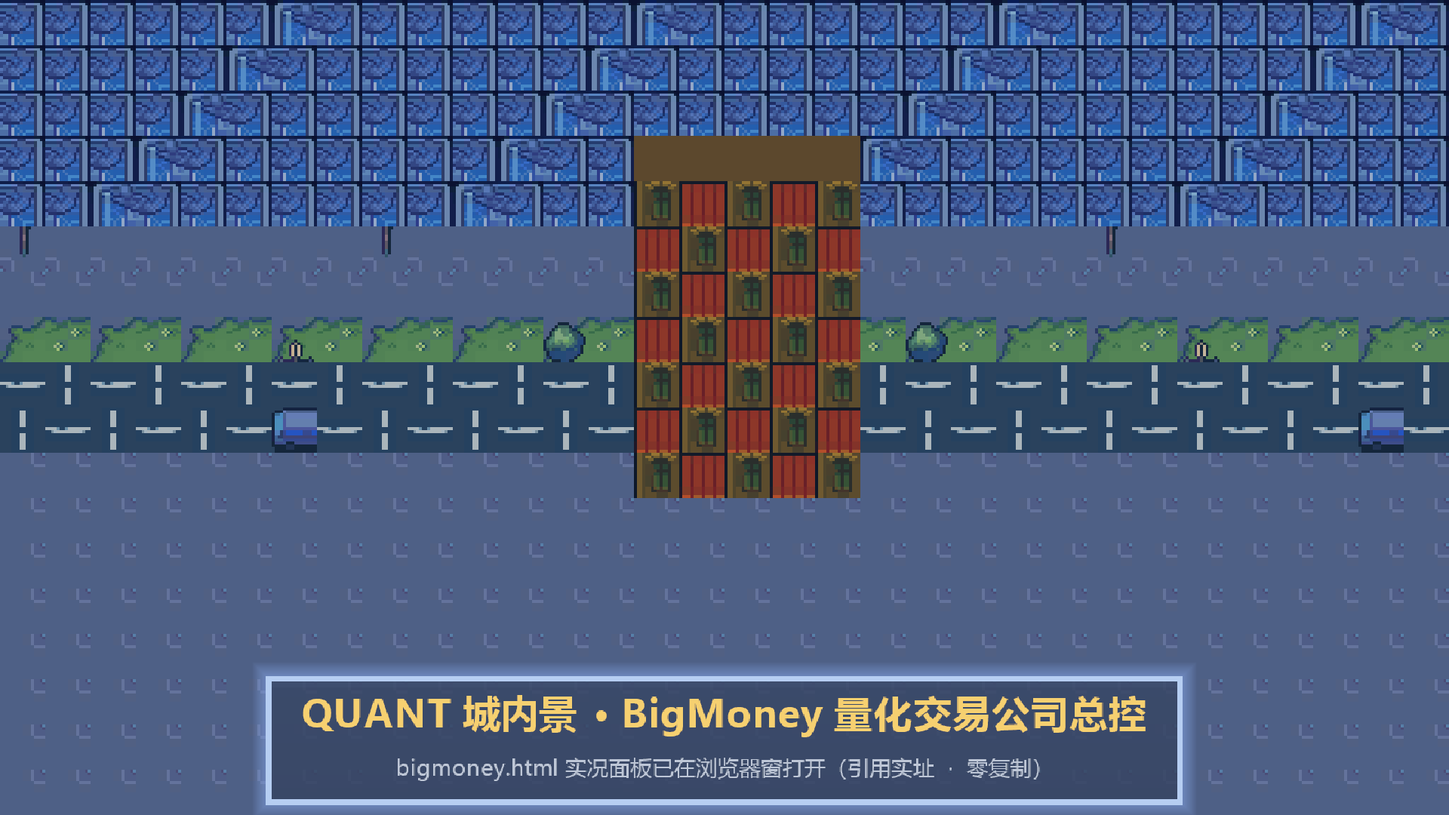
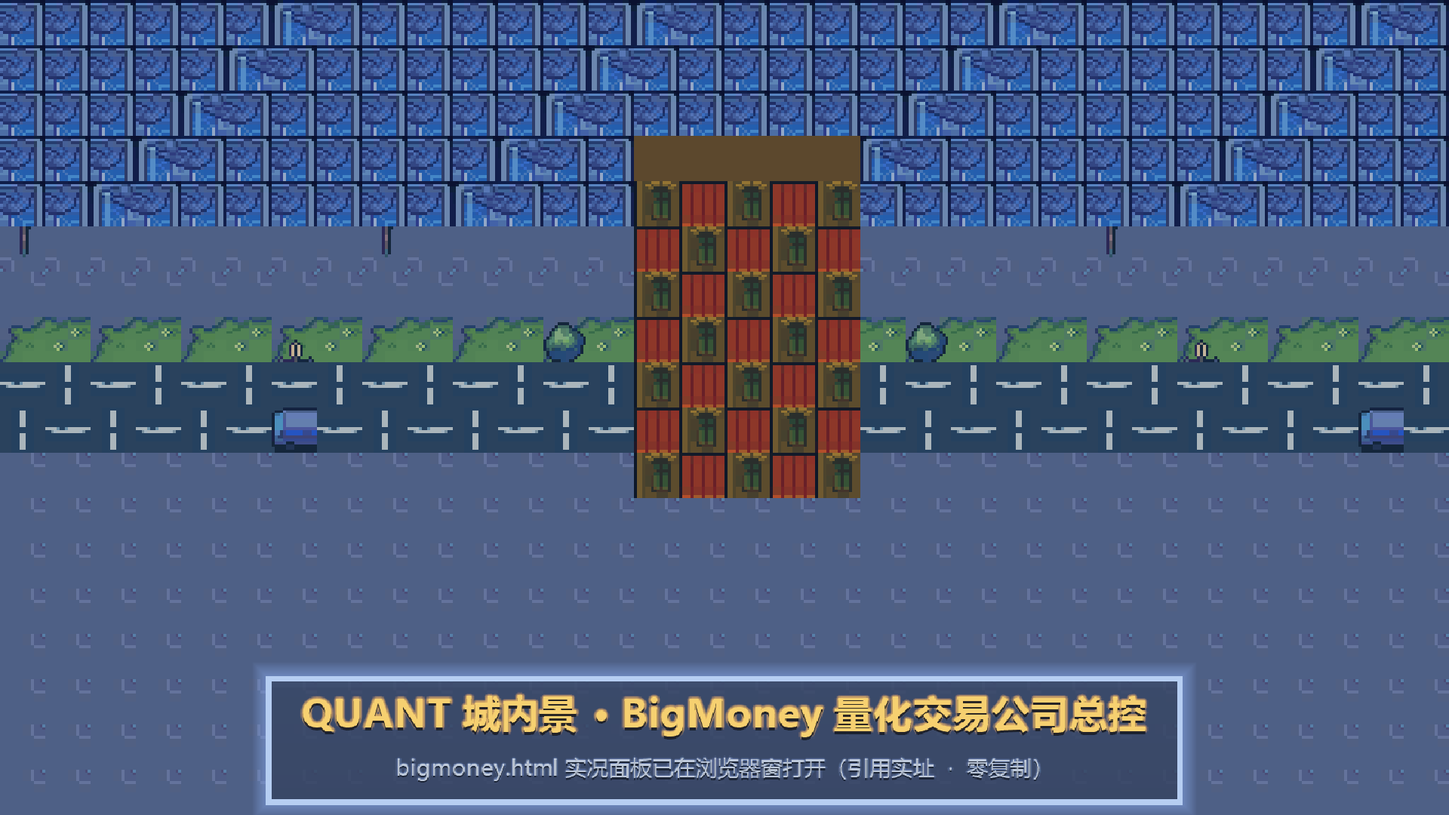
DevLoop r24: P-18 slice 3 closed - baked CJK text upgraded to 2D bevel look (GDI+ disk-glow + drop shadow passes, moonlight warm-gold title / cool-blue note) + bake idempotence SHA-proven + InteriorProof 65 asserts green one pass (dark 0.095 / text dx 9100 / ring bitwise-stable) + multimodal 7/7; TE

Changed region(s): [[0.1875, 0.8556, 0.8125, 0.9778]]

diff --git a/TECH.md b/TECH.md
@@ -36,6 +36,7 @@ Tools/perceptor/
 │   ├── orders.ps1      # BigMoney fleet orders → CEO_ORDER（quant 面）
 │   ├── orders_bs.ps1   # BigStream/orders → CEO_ORDER（media 面）
 │   ├── orders_hq.ps1   # 集团台账 docs/orders.md → CEO_ORDER（governance 面·内容寻址游标 hqorder: r6）
+│   ├── residents.ps1   # 本地 Ollama 居民心声 → RESIDENT_SAY（诚实律零新事件即静默·45min 冷却·CityWatch 线落 v1.5 位置态+自记忆+居民对聊·r24 §二补行同步）
 │   ├── snapshot.ps1    # MiniGame 自动化快照 → GAME 城活跃脉冲
 │   └── weather.ps1     # Open-Meteo 上海 → 天气片段+WEATHER_ALERT（M1.5·零 key）
 └── verify.ps1          # 验证门禁（schema+登记簿校验）
@@ -138,7 +139,7 @@ gaming/FluxVerse/
 - [P1·CEO 已署名·进行中 r13·最高优] 集团审计转办件 **P-15 M1 引擎工程点火**（ledger P-2026-09-23-15·CEO 署名 P1 令 ~18:20「立项集团级元宇宙可视化项目，游戏化呈现，City 里是美术资产，开始走流程。优先级最高！」——**明文解除 DevLoop 引擎/美术禁区仅限此件**·认领制先到先得·分轮推进单轮 25min 预算）：①Tuanjie 原生 2D 工程（正交相机/Sprite/Tilemap·禁 3D 铁律）②City 资产接线（**实址勘正 r7：`gaming/MiniGame/Art Assets/AA-022_SceneBG背景_清洁城市与万圣节动画件_GuttyKreum/CleanCityv3`——953 件 1.32MB 与台账数吻合；ledger 载「Art Assets/City」已因 MiniGame U164 正名过时**）③静态城市骨架=北外滩脑塔+黄浦江+陆家嘴三城街区（concept-shanghai 构图）④事件路由器一件（CEO_ORDER 光脉冲先做）⑤判据=编辑器可跑+截图+一件事件驱动动画；**就绪面已勘明 r7：Tuanjie 1.10.3 编辑器（2022.3.62t15）已装于 `C:\Program Files\Tuanjie\Hub\Editor\2022.3.62t15`，MiniGame 三工程 ProjectVersion 实证同版——环境零障碍**；**首轮已收 r8**：工程骨架建成——tuanjie-cli projects create（内置 2D 模板 cn.tuanjie.template.2d@7.0.4）→ City/ 落仓，ProjectVersion=2022.3.62t15 与 MiniGame 三工程同版，SampleScene 正交相机（orthographic: 1）+2D 全家桶（feature.2d/tilemap/physics2d/particlesystem·禁 3D 铁律自检通过），Hub 创建流自动开编辑器（「City - SampleScene - Tuanjie Editor 1.10.3」）=编辑器可跑实证；下轮=②City 资产接线+③静态城市骨架（M1 判据已扩容 24h 四档色轮+天气粒子·71e976a）**；**r9 已执行②③但 25min kill 未提交**：844 件 CleanCityv3 入 City/Assets/Art + 批处理建 CityScene（2324 tileCells）+截图 m1-r9-cityskeleton.png——**重大缺陷已勘明 r10**：保存场景 Ground/Water/Roads 三层 `m_Tiles: {}` 全空（tileCells 2324≈仅建筑+props 证实），根因=Paint 闭包持有的 Tile 引用跨 NewScene 后假 null→`if(t!=null)` 静默跳过整层；**r10 已修**：builder 重构=RT() 逐格 LoadAssetAtPath 新解析（绝禁长命引用）+分层计数 fail-loud（空层即 throw 入 .done）+语义勘正（contact sheet+多模态实证：191/194=人行道〔r9 误当墙=「水塔」真相〕/000-004 真草〔r9 的 024/025 是沥青草过渡〕/189=玻璃幕墙〔正合脑塔〕/166/284/208=带标线道路/水提取件正确）+meta 自愈（拒收图块删 meta 强制重导）；**遗留 r11 已收口②③**：000 类图块「导入拒收」根因勘明=**MK() 把 ArtRoot 相对路径喂给 AssetDatabase**（只认 `Assets/` 起步的项目相对路径——batch-r10.log 444 行 `does not exist` 即 ImportAsset 空操作实证→meta 删除后重导从未发生→catalog 首项 000 即挂全连坐，r10「导入器层拒收」为误诊）；修=AssetDatabase 全调用改 `ArtRoot+"/"+spritePath`（File I/O 绝对路径不动）→meta 自愈真生效（000 无 meta 态重导重建）；重建 50s 全绿：saved=True **全层非空**（G:2121/W:606/R:488/三城 42·40·42/脑塔 18/props 32——r9 空层缺陷根除）+截图 m1-r11-cityskeleton.png 多模态 8 项验图绿（一江两岸+品字形三城+无水方块复现+无渲染空洞）；**r12 已收口④事件路由器一件**：Assets/Scripts/EventRouter.cs=FluxEventRouter 纯逻辑核心（只读轮询 world/world-events.jsonl 每 10s+内存游标+日轮转自愈〔行数<游标→回零·scan v0.4 轮转配套〕+CEO_ORDER→脑塔金色光脉冲〔procedural 径向光晕 SpriteRenderer 纯 2D 零资产依赖〕）+CityEventRouter MonoBehaviour 薄适配（懒初始化+SeekToEnd 零历史重放〔城今日出生同律〕）已入 CityScene 保存=play mode 真跑就绪；Assets/Editor/EventRouterProof.cs 批处理验证器（哨兵式同 r11）；沙盒 3 断言全绿（种子 3 行轮询 0 发〔历史禁重放〕/追发 1 CEO_ORDER 恰 1 脉冲/4s 模拟泄放零残留）+渲染断言绿（pulse_alpha_peak=1.00·**断言勘误一课：脑塔玻璃本底近白〔亮度 0.714〕而 CEO 金亮度 0.767 与之近等→亮度差 0.022 必败首跑；金脉冲对白塔的正确信号=暖色偏移 r−b〔−0.204 蓝调→−0.016 近中性·Δ0.189〕——亮色叠加于白底测色温不测亮度**）+截图 m1-r12-pulse-before/peak.png 双取证+多模态 3 项验图绿（金晕在塔基/城市完整无空洞/纯 2D 像素=禁 3D 自检过）；引擎只读 world/ 零写兄弟仓零；**下轮=M1 判据扩容项（24h 四档色轮+天气粒子·clock/weather 探针数据已就绪）→接 P-16 bigmoney.html 内景接入**；**r13 已收口 M1 判据扩容项（24h 四档色轮+天气粒子·引擎侧现实节律接线毕）**：AmbientWeather.cs=纯逻辑核心（AmbientWheel 四档边界同源 clock.ps1〔dawn5-8/day9-16/dusk17-19/night〕+调色板〔黄昏暖紫金=目标图气质·夜蓝黑+城灯电光青·紫粉仅环境色律遵守〕+WeatherRules 同源 weather.ps1〔wind≥17.2ms 或重 WMO 65/67/75/77/82/95/96/99→全城红警带〕+WeatherField 纯步进粒子场零 GameObject 可沙盒测）+CityAmbient 薄适配（只读轮询 world-state.json 每 10s·reality 扁平键 city_day_phase/beijing_hhmm/weather_kind/weather_code/weather_wind_ms·静默降级·断链回退本机钟）=天空渐变 quad（高 40=视口全渐变域）+城市带 tint（−16..+14 大气层）+程序化雨 140/雪 90 sprite 场+红色警带 sin 脉冲；AmbientProof 沙盒+渲染双取证 **197 断言全绿**（dawn 底暖 +0.35/dusk 底暖 +0.54/塔 day 0.714→night 0.552 夜染实证/雨 +1406 雪 +446 亮像素/警带 alpha 0.134+暖移 +0.273）+7 截图 m1-r13-{dawn,day,dusk,night,rain,snow,alert}.png+多模态验图绿（雨线全城散布/红警带横贯江面/黄昏暖染经 α0.15→0.22 加强后复跑双绿）；CityScene 已存 CityAmbient=play mode 真跑就绪；新法=程序化 Sprite 双陷阱（见新法行）；**r14 已领 P-17②相机双档并顺带勘明修复重大跨轮债**：r12/r13 场景布线（CityEventRouter/CityAmbient）因**MonoBehaviour 文件名律**（见 r14 新法行）跨会话全灭——r13 静默 fallback 五连叠幽灵 CityAmbient GO（HEAD 实测 5 个）、两轮「play mode 真跑就绪」宣称跨会话失效；r14 修复（类迁名匹配文件+幂等场景修复+跨会话 reload gate 10 断言绿）后才真就绪；**下轮=P-16 bigmoney.html 内景接入（引用不复制·L1 街道档视野已就绪）**
 - [P1·CEO 令·v0 判据已收口 r17·bigmoney.html 先接一件] 集团审计转办件 **P-16 三司面板接入元宙 L1**（ledger P-2026-09-23-16·CEO 令 ~18:30「各个子公司可视化项目准备接入元宇宙项目，统一开发和管理，总控」·governance §1 集团层拥有表已加行=新可视化项目禁各司另建）：①接入协议落 TECH（L1 内景规范：城内建筑钻取→内景窗）②**引用不复制铁律**（Biggame 像素小镇看板/BigMoney bigmoney.html 禁重绘重建·引擎内嵌复用选型由 M1 工程实证）③统一像素壳层（1 号风 UI 框）归总控、面板数据面各司自治（r13 注：P-18 CEO 裁决已修正=「统一 GUIAgent 风格壳层」·城市世界像素正典不动）④判据=城内点建筑开内景窗见该司实况（先接 bigmoney.html 一件）；**r15 施工（25min kill 断件·r16 已补提交）**：InteriorRouter 纯核（QUANT 块 hit-test→file:/// 实址 URL→冷却门→OpenURL 注入）+CityInterior 适配+InteriorProof 三门（纯逻辑 27 断言/幂等布线/渲染门+跨会话 reload 门）+PS runner——**WebView 选型实证（r15）**：Tuanjie 1.10.3 Windows 独立平台无原生 WebView（managed 扫描仅 androidappview=Android 限定）→v0 等效=OS 默认浏览器窗开实址（引用不复制铁律断言在证明内）+引擎内 GUIAgent 玻璃横幅壳；v1 WebView2 嵌=后续债；**r15 渲染门 FAIL 逐像素勘明（r16 完成诊断）**：uGUI WorldSpace 横幅在批内 Camera.Render 渲染成 **ScreenSpaceOverlay**（renderMode=WorldSpace 赋值需 player-loop 画布更新、批内永不处理——实测横幅 2000×260 **屏幕px** 落屏左下角整条暗带，非世界 20×2.6 落位 (0,-19.35)；两跑数字逐位相同证 r15 锚点修=改错地方，锚点从非根因）；**r16 修=横幅重构为程序化 SpriteRenderer 三层栈**（halo 金晕 20.3×2.9/rim 金框 20.16×2.76/glass 暗玻璃 20×2.6·sortingOrder 20/21/22·z -9·r13 localScale 归一律白片 4px@16ppu）——批内与 play 同路径（r12 脉冲/r13 天空粒子已双实证）；证明 C2 亮/暖像素度量从「带内文字」改「金框环带」（文本层退为后续债：横幅 CJK 文案源=Assets/Data/interior-strings.txt·r17 候选=PS GDI+ 预烘焙 CJK 纹理入引擎）；**r17 证明双绿收口（v0 判据达成：点 QUANT 街区→实址内景窗见 BigMoney 实况）**：三门复跑一次过全绿——①批内 42 断言（暗玻璃带 0.405→0.322 暗化 0.083≥0.04 门·hide 后 0.405 逐位回基线；金框环带 bright=warm=3415px 远超 120/60 双门槛；幂等布线 attached=0·InteriorBanner 零入场景〔运行时律〕）②跨会话 reload 门 9 断言（CityInterior/CameraRig/Ambient 三组件全解析·相机 L0=20·实址 URL 解析 True·sky=144）③edge 实址 live 取证 173KB 非空壳；多模态双验图绿（横幅=暗玻璃带+金色发光框环+城市零空洞；bigmoney.html=真数据面：因子 IC 条形图/净值/6 交易员名册/当日事件日志）；基线与 reload 截图与 r16 提交版逐字节复现=场景稳定性旁证（r16 kill 窗口估算暗化~0.2 偏高——法=提交断言门 0.04·实测 0.083 双余量过）；**L1 内景协议 v0 落位**=城内点 QUANT 街区→file:/// 实址开 bigmoney.html（引用不复制断言在证明内·v0 OpenURL 等效）+引擎内 GUIAgent 暗玻璃金框横幅壳 6s 生命·运行时构造永不入场景；后续债两行=横幅 CJK 文案层（interior-strings.txt 已备·PS GDI+ 预烘焙纹理入引擎=r18 候选）+GAME/MEDIA 城注册行（Biggame 像素小镇看板/BigStream 面板接线后续轮）；**r18 已收口 CJK 文案层**：Tools/city/bake-banner-text.ps1（ASCII 律·CJK 全在 UTF-8 数据件）GDI+ 烘焙 1000×130 透明 PNG（YaHei·自适应字号 42/24px·title 金/note 冷灰）→ City/BannerData/（**Assets 外**：运行时字节路径不走导入器·禁同图双身份）→ CityInterior Text 层（sortingOrder 23·File.ReadAllBytes+LoadImage+显式 Apply·bake ppu 50=20×2.6 与玻璃逐位同域）；证明 55+10 断言双绿（r16 环带门原样 3415 逐位复现·暗化门迁非文字子群 base0.405→on0.325 Δ0.080≥0.03·文字门 text_px 7375=纯 glyph 墨迹 Δ≥300·渲染时内省 8 断言=Text 子件/次序 23/界 20×2.6/纹理背景 alpha 0.00<0.10/标题行有墨）+多模态五项绿（暗玻璃+金框+金标题可读+note 可见+零伪影）；**假根因警示录**：首跑渲染=整块金矩形，两轮误诊（导入器干扰论+Apply 论·两次「修复」后数字逐位不变=改错地方的 r16 定律应验）——真凶=r18 加 Text 层时误删 glass.localScale 行（玻璃塌成 0.25u 小方块=截图中「深色小方块」伪影·金 rim 成面板本体）；法：**改共享构造体后必验既有层完整**（本证明的渲染时内省只看 Text 子件未看 Glass——已由环带 3415 逐位复现兜底捕获）；**r20 已收口 GAME 城注册行**：注册表 v0→v1 加 GAME 行（zone=GAME·company=Biggame·panelRelPath=`gaming/MiniGame/像素小镇看板.html`〔CJK 文件名=码位构造守脚本 ASCII 律〕·bounds=南岸块 x -24.5..-18.0/y -9.5..-5.0 对齐 CitySkeletonBuilder）——引用不复制=点 GAME 街区开 MiniGame 仓根实址）+**ResolveUrl 改 System.Uri**（CJK percent-encode 浏览器可开；ASCII 路径输出与旧手拼 file:/// 逐字节同=QUANT 行为零改动）；证明 65 断言一次过全绿（+11 新断言：GAME 块中/角/顶缘三态 hit+源仓存在+URL 转义含%+独立 zone 冷却开/禁开；既有面逐位复现 ring 3415/dark 0.405→0.325/text_px 7375/attached=0——r18 假根因律实证）；**U175 语境注记（科学判断）**：像素小镇线停役但镇看板 html 留档永不删（CEO 令）=GAME 城 v0 注册面；BoardForge 游戏公司看板落盘后仅改 panelRelPath 一行即升级；**MEDIA 行仍悬=新债**：BigStream 全仓实测无 html 面板（media/BigStream·开线五步在建）——待面板落盘再注册，禁猜路径
 - [P1·CEO 令·②已收口 r14·③④⑤为参数正典] 集团审计转办件 **P-17 呈现层参数规格 v1**（ledger P-2026-09-23-17·CEO 令 ~18:40「确定好迭代频率，建筑角色比例，摄像机高度啊什么的」）：①资产路径修正已由 r7 勘正（AA-022 CleanCityv3 实址）②**相机双档**=正交 PPU16 point filter·L0 全景档 Size 20（视野 71×40 tiles·一江两岸主城带·镜头缓漂）↔ L1 街道档 Size 9（32×18 tiles·看建筑门脸/机器人/内景窗）·切换 1.2s ease 插值禁瞬跳（r13 相机仍 Size 20 单档=本件主施工面）→**r14 施工收口**：CameraRig.cs 纯核（RigMath smoothstep 零端速缓动+带内 clamp+漂移 48s/37s 双周期 amp 2.5/1.0；RigTween 动靶追踪插值——L0 漂移是活靶、落地无缝=禁瞬跳的构造性保证）+CityCameraRig.cs 适配（左键点世界点→L1 街道·Esc/右键→L0·编辑态批证明与 play 走同一 Advance 核）；CameraProof 沙盒+渲染+跨会话三取证 **60+10 断言双绿**（mid_size=14.50 精确插值中点/quant 街景天空余量 7/0 像素/tower 0/7/回位 L0 天带 164/99 复现/QUANT 金面 warm 0.21/塔面 bri 0.61/漂移回位 (1.26,0.63)=Drift(4.05) 手算吻合）+6 截图 m1-r14-{l0,mid,l1-quant,l1-tower,l0-return,reload}.png+多模态验图绿（两街道档满框街景+金楼+玻璃塔+江带）③比例律=普通建筑 2-4 tile 高/沿街商铺 2 tile/办公楼 4-6 tile/地标 96-160px/街道机器人 16×16 灯流主角/居民 32×32/信使粒子 8px/角色:建筑≈1:4（小角色大城）④迭代频率=开发侧 DevLoop 10min 轮+每日一版（每版判据推进+截图入仓）；运行时侧=事件轮询 10s（TECH 正典）·呼吸灯 10min 拍·日夜真实北京时间·像素动画 10fps·CEO_ORDER 脉冲 2s·commit 粒子穿城 15-30s⑤场景结构=单场景一江两岸大 Tilemap（江 12-15%/北 45%/南 40%·BLUEPRINT §三 施工面）
-- [P1·CEO 令·r22 切片 1 已收口·续切片待领] 集团审计转办件 **P-18 UI 壳层风格正典：GUIAgent 展示风**（ledger P-2026-09-23-18·CEO 令 ~18:55「所有可视化项目以这个美术风格为准，统一开发和风格」+CEO 明示裁决=方案 A：UI 壳层用此风格，城市世界像素正典不动——修正 P-16③）：双层风格正典=①世界层 1 号高清赛博像素+黄昏目标图**不变**（CEO 2D 铁律）②操作层（UI 壳）=GUIAgent 风：水晶质感按钮（2D 拟态=玻璃拟态+高光+发光描边）/柔光高级灰暗部/月光式 LUT 调色（冷蓝暗+暖光点缀）/玻璃拟态面板（半透明+细描边）/立体字（2D 阴影+发光模拟）/克制极简布局——**全部 2D 光效实现禁 3D 不变**③风格源=C:\Agent\gui-agent\GUIAgentUnity（官方演示工程·只读参照学实现禁资产搬运）④判据并入 M1=UI 壳一套（按钮/面板/内景窗框）风格实证截图·三司内景窗壳层一体适用；**r22 切片 1 收口（面板+按钮·先领走）**：UiKit.cs 纯程序化构件（月光调色板/暗玻璃渐变 α0.78+细亮描边+外发光晕+高光斜条+底部内阴影=GUIAgent 五原子全 2D 程序化纹理·sprite 栈 r16 批内律·运行时构造永不入场景·localScale 归一 r13 律）+UiProof 50 断言一次过全绿（玻璃衰减灯测 0.422/0.830·金环 134 暖px·亮环 1086 vs 基线 0·streak 上下半差 0.105·glow 开关差 0.187·Release 后回基线差 0.000·场景零保存）+截图 m1-r22-uishell.png 多模态 6 项绿（暗玻璃面板/冷蓝描边/三按钮中金侧冷/上亮下暗/城市零空洞/纯天空区无叠楼）；**r22 根因发现**：r21 断件 proof 首跑 FAIL「baseline ring 1421 bright」=建城铺装实际达 world y=15（tile cells 9..14）而夜 tint 顶=+14——1u 未 tint 亮铺装带被 ring 底条带（y14.5..15.1）量中（7 行×203 列=1421 恰合）——修=全布局上移 0.7u（panel 16.5→17.2）诸门区全数 ≥15.2 净空夜空；续切片候选更新（r23）：内景窗框壳层一体化已收口=**r23 切片 2（P-16 横幅升级 GUIAgent 正典壳）**：UiKit.BuildGlassPanel 新入口（暗玻璃渐变+冷蓝细描边+蓝紫外发光晕=五原子同款·横幅排序带 20..23 不动·UiKit 构件带 40..59 分域），r16 平涂金三层退役、暖点缀移交烘焙金字（月光 LUT 冷体暖点）；HideBanner 改 UiKit.Release 收全栈运行时纹理（旧码只销 GO——r18 起每次 build 产新纹理=show/hide 循环泄漏，升级后 4 纹理/次故一并收口）；RingMetrics 金框门改冷蓝框门（bright≥120∧cool≥60·b−r>0.15）；双绿一次过=主证明 65 断言（暗化 0.405→0.312 门 0.03/回基线 0.405 逐位/text dx=7418 门 300/ring bright=5506 cool=10395）+reload 门 10 断言（sky=144 与 r17 同值=场景稳定旁证）+多模态 5/5 绿（暗玻璃渐变/冷蓝描边/蓝紫晕/金色 CJK 主副标/城市零空洞）；剩余续切片=立体字纹理层（2D 阴影+发光·r18 烘焙管线升级）
+- [P1·CEO 令·r22/r23/r24 三切片已收口·P-18 全闭] 集团审计转办件 **P-18 UI 壳层风格正典：GUIAgent 展示风**（ledger P-2026-09-23-18·CEO 令 ~18:55「所有可视化项目以这个美术风格为准，统一开发和风格」+CEO 明示裁决=方案 A：UI 壳层用此风格，城市世界像素正典不动——修正 P-16③）：双层风格正典=①世界层 1 号高清赛博像素+黄昏目标图**不变**（CEO 2D 铁律）②操作层（UI 壳）=GUIAgent 风：水晶质感按钮（2D 拟态=玻璃拟态+高光+发光描边）/柔光高级灰暗部/月光式 LUT 调色（冷蓝暗+暖光点缀）/玻璃拟态面板（半透明+细描边）/立体字（2D 阴影+发光模拟）/克制极简布局——**全部 2D 光效实现禁 3D 不变**③风格源=C:\Agent\gui-agent\GUIAgentUnity（官方演示工程·只读参照学实现禁资产搬运）④判据并入 M1=UI 壳一套（按钮/面板/内景窗框）风格实证截图·三司内景窗壳层一体适用；**r22 切片 1 收口（面板+按钮·先领走）**：UiKit.cs 纯程序化构件（月光调色板/暗玻璃渐变 α0.78+细亮描边+外发光晕+高光斜条+底部内阴影=GUIAgent 五原子全 2D 程序化纹理·sprite 栈 r16 批内律·运行时构造永不入场景·localScale 归一 r13 律）+UiProof 50 断言一次过全绿（玻璃衰减灯测 0.422/0.830·金环 134 暖px·亮环 1086 vs 基线 0·streak 上下半差 0.105·glow 开关差 0.187·Release 后回基线差 0.000·场景零保存）+截图 m1-r22-uishell.png 多模态 6 项绿（暗玻璃面板/冷蓝描边/三按钮中金侧冷/上亮下暗/城市零空洞/纯天空区无叠楼）；**r22 根因发现**：r21 断件 proof 首跑 FAIL「baseline ring 1421 bright」=建城铺装实际达 world y=15（tile cells 9..14）而夜 tint 顶=+14——1u 未 tint 亮铺装带被 ring 底条带（y14.5..15.1）量中（7 行×203 列=1421 恰合）——修=全布局上移 0.7u（panel 16.5→17.2）诸门区全数 ≥15.2 净空夜空；续切片候选更新（r23）：内景窗框壳层一体化已收口=**r23 切片 2（P-16 横幅升级 GUIAgent 正典壳）**：UiKit.BuildGlassPanel 新入口（暗玻璃渐变+冷蓝细描边+蓝紫外发光晕=五原子同款·横幅排序带 20..23 不动·UiKit 构件带 40..59 分域），r16 平涂金三层退役、暖点缀移交烘焙金字（月光 LUT 冷体暖点）；HideBanner 改 UiKit.Release 收全栈运行时纹理（旧码只销 GO——r18 起每次 build 产新纹理=show/hide 循环泄漏，升级后 4 纹理/次故一并收口）；RingMetrics 金框门改冷蓝框门（bright≥120∧cool≥60·b−r>0.15）；双绿一次过=主证明 65 断言（暗化 0.405→0.312 门 0.03/回基线 0.405 逐位/text dx=7418 门 300/ring bright=5506 cool=10395）+reload 门 10 断言（sky=144 与 r17 同值=场景稳定旁证）+多模态 5/5 绿（暗玻璃渐变/冷蓝描边/蓝紫晕/金色 CJK 主副标/城市零空洞）；剩余续切片=立体字纹理层（2D 阴影+发光·r18 烘焙管线升级）；**r24 切片 3 收口（立体字层·P-18 ②末项落位·三切片全闭）**：bake-banner-text.ps1 升级 Draw-BevelText 三层律（glow→shadow→fill·月光律=标题金暖晕/注记冷蓝晕+近黑冷下影）——glow=像素盘逐偏移 DrawString SourceOver 累积=软衰减晕（字缘亮·晕缘单遍）·shadow=同字下移 3/2px·全 GDI+ 确定性（重跑 SHA256 同字节幂等实证）+烘焙自检三绿（透明角 A=0/暖晕 1843·冷晕 744·暗影 1175 采样 px）；InteriorProof 65 断言一次过全绿（暗化 0.405→0.310 Δ0.095≥0.03 较 r23 0.080 更深=下影并入暗群/text dx 9100≥300 较 r23 7418 增=晕亮像素并入/bake_gold 4236/ring 5506·10395 与 r23 逐位同值=场景稳定旁证·同截图名覆盖=r23 先例）+多模态 7/7 绿（金辉光晕/下影立体感/冷注记可读/城零空洞/零伪影）；**P-18 全闭**（r22 面板+按钮/r23 横幅壳/r24 立体字）
 - [P1·CEO 令·转办入册待领·与 M1 同线] 集团审计转办件 **P-21 城市美术资产库消费+统一风格门禁**（ledger P-2026-09-23-21·CEO 令 ~21:58「我的美术资源库好好利用，但要统一风格」——M1 现仅用 AA-022 单包，库内 47 包 20.5GB 未挖）：①消费链四通道=城内每个美术需求走 S 库→AA-L2 直用（四闸·U121 轻档能用就用·授权闸=用户已全量确认购置合法台账留痕）→L1 参考/img2img→纯生成最后手段；②风格门禁（CEO「统一风格」）=锚 docs/design/art-target-dusk.png+1 号高清赛博像素正典——每件入城一行和谐度自检（色调/线条密度/质感 vs 目标图）+2D 铁律+五色律光色归位·禁卡通/Q 版/写实混入世界层·UI 壳面走 P-18；③来源台账=每包消费一行（AA 标签+一句话+入城日期）落本节资产台账；④弃用留痕义务照库 §七；⑤授权红线=L1 件永禁直入工程（版权）·跨机取件走 R-TRANSIT；城市向候选=AA-016 现代像素城镇全套（L2·16/32/48px+现代室内+人物/头像生成器）/AA-021 室内图块（P-16 内景窗面·L2）/AA-028.39/47-50/51-55 季节城市图块（L2）/AA-028.34/36 城市建筑矢量（L2）/AA-034 Unity 粒子包（节日烟火·CC0 unitypackage 直导）/AA-030/032/037 UI 反馈音效+AA-038 chiptune（引擎 UI 壳/城市场景音·CC0/CC-BY 署名）
 - [P1·CEO 令·转办入册待领·M2/CityWatch 线] 集团审计转办件 **P-22 BigLife 万人户籍库消费接线**（ledger P-2026-09-23-22·CEO 令 ~21:30「你专门生产超体元宇宙城市的所有居民，先来一万个」）：①只读消费=BigLife census/export/citizens-light.jsonl（id/name/species/faction/district/block/profession/axis/creed/age——M2 居民姓名身份池+CityWatch 人口统计面板零引擎依赖先行）；②契约=BigLife CODEX §十二（字段变更 T2+7 天否决窗先登记后产出·导出面 R3 可再生）；③诚实律边界=实锚居民与叙事市民分层呈现（CODEX §一·叙事人口在城内呈现须带「叙事层」标识）
 - [P1·CEO 令·转办入册待领·与 P-22 同线] 集团审计转办件 **P-23 城市认知面消费接线**（ledger P-2026-09-23-23·CEO 令 ~23:10「你规划好，落地执行，科学执行」——居民大脑五层落地批）：①CityWatch 居民之声 v2=读 BigLife cognition/pools.json+citizens-light.jsonl——城主开观城台→按真实情境（事件>天气>时段契约）抽 3-5 位居民气泡台词（零 LLM 零 token）+点居民→spotlight.py 事实级应答（本地 LLM）；②M2 barks=引擎气泡层消费 pools.json（<24 字·同画面≤2 气泡·注意力配给律）；③诚实律接线=池=情境口气零事实·事实门=真实激活·事实级=聚光灯喂什么说什么
